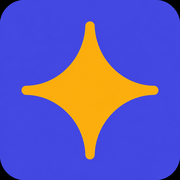
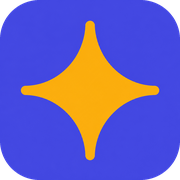
faviconの黒縁を除去し、ヘッダーの点を星マークに差し替え

diff --git a/index.html b/index.html
@@ -6,10 +6,10 @@
 <title>まかせるAI生活（非公認）｜50代でもできる、Gensparkのまかせ方</title>
 <meta name="description" content="50代でもできる、AIエージェント「Genspark」へのまかせ方を、実例ベースで紹介する非公式ファンメディア。リサーチ・資料づくり・画像生成をそのまま任せるコツを解説します。">
 <meta name="google-site-verification" content="V6rVCSkCVuFF-f9nqNfatob1aPifl4NvGFwW8iEqY5s">
-<link rel="icon" type="image/png" sizes="32x32" href="img/favicon-32.png">
-<link rel="icon" type="image/png" sizes="16x16" href="img/favicon-16.png">
-<link rel="apple-touch-icon" sizes="180x180" href="img/apple-touch-icon-180.png">
-<link rel="icon" type="image/png" sizes="512x512" href="img/icon-512.png">
+<link rel="icon" type="image/png" sizes="32x32" href="img/favicon-32.png?v=2">
+<link rel="icon" type="image/png" sizes="16x16" href="img/favicon-16.png?v=2">
+<link rel="apple-touch-icon" sizes="180x180" href="img/apple-touch-icon-180.png?v=2">
+<link rel="icon" type="image/png" sizes="512x512" href="img/icon-512.png?v=2">
 <link rel="preconnect" href="https://fonts.googleapis.com">
 <link rel="preconnect" href="https://fonts.gstatic.com" crossorigin>
 <link href="https://fonts.googleapis.com/css2?family=Zen+Kaku+Gothic+New:wght@500;700;900&family=Noto+Sans+JP:wght@400;500;700&family=Space+Grotesk:wght@500;700&display=swap" rel="stylesheet">
@@ -126,6 +126,7 @@ a{color:inherit;text-decoration:none}
   display:flex;align-items:center;gap:8px;white-space:nowrap;
 }
 .dot{width:10px;height:10px;border-radius:50%;background:var(--spark);flex:none}
+.brandmark{width:24px;height:24px;border-radius:7px;flex:none;display:block}
 .chip-un{
   font-family:"Space Grotesk",sans-serif;font-size:10px;font-weight:700;letter-spacing:.1em;
   background:var(--ink);color:#fff;border-radius:5px;padding:2px 7px;
@@ -424,7 +425,7 @@ details.faq[open] summary:after{content:"\FF0D"}
 
 <header class="sitehead">
   <div class="wrap nav">
-    <a class="brand" href="#top"><span class="dot"></span>まかせるAI生活<span class="chip-un">Genspark非公認</span><span class="chip-tag">50代でもできる</span></a>
+    <a class="brand" href="#top"><img class="brandmark" src="img/mark-64.png" alt="" width="24" height="24">まかせるAI生活<span class="chip-un">Genspark非公認</span><span class="chip-tag">50代でもできる</span></a>
     <nav class="navlinks" aria-label="ページ内リンク">
       <a href="dekikoto-100.html"><strong>できること100</strong></a>
       <a href="#uses">できること</a>
